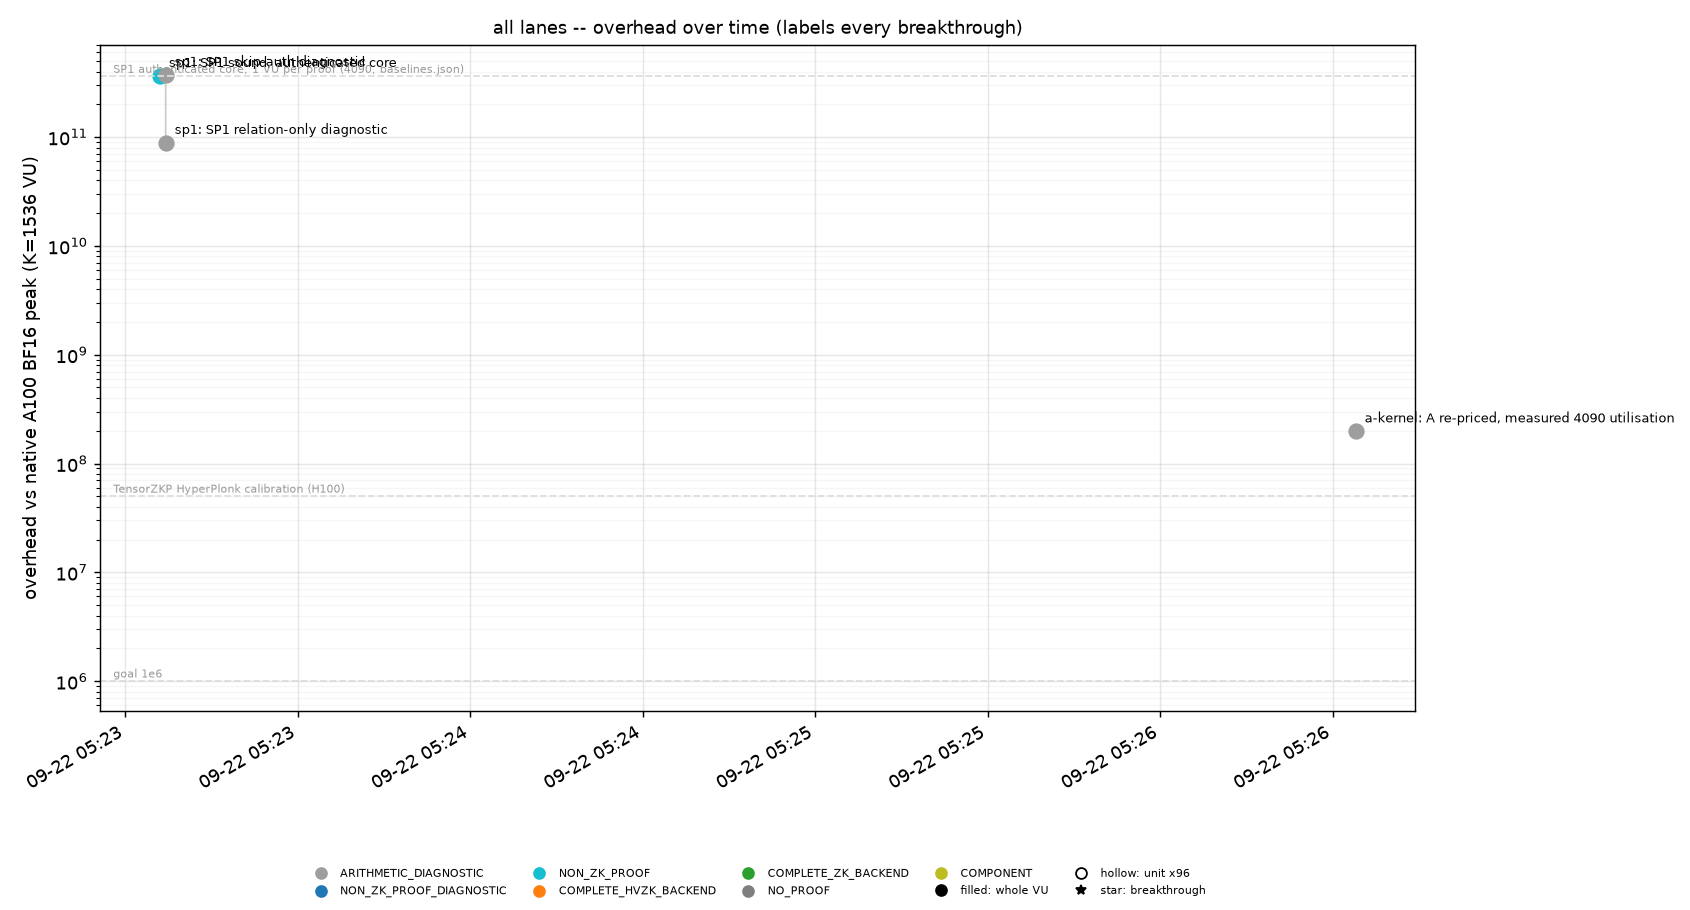
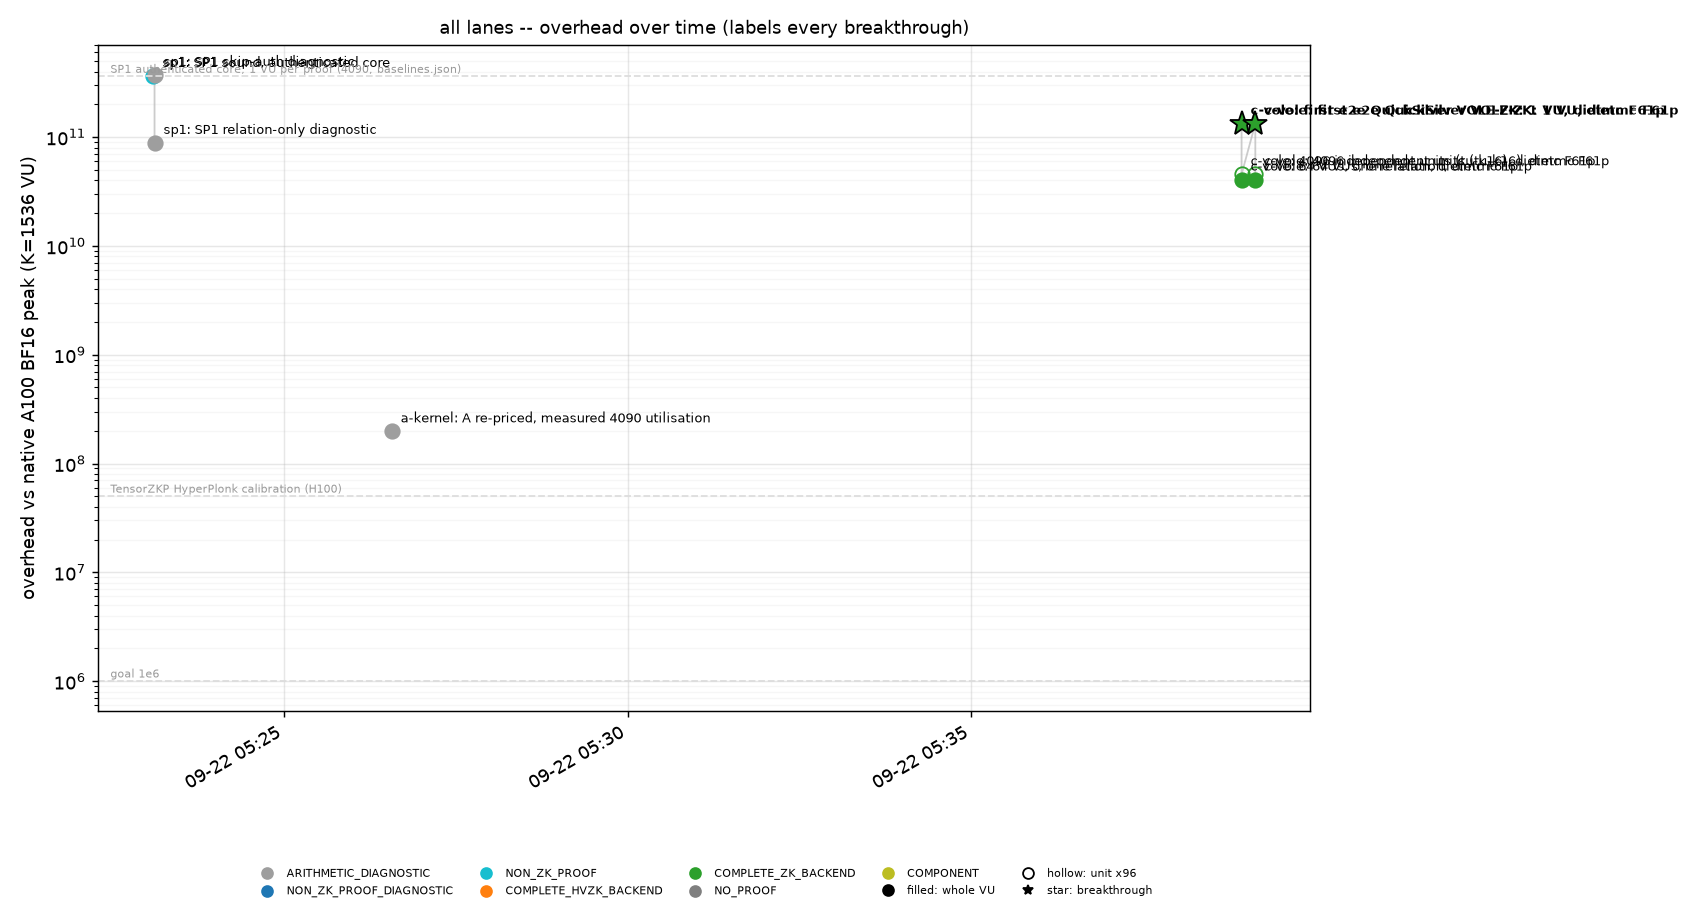
c-vole ledger: first end-to-end QuickSilver VOLE-ZK runs (1 VU 1.31 s, 64 VUs 0.400 s/VU, 4096 units 4.66 ms/unit; F61p r=1 sensitivity point) + plots; bench.py writes research/result/v0.1

diff --git a/backends/vole/bench.py b/backends/vole/bench.py
@@ -236,9 +236,37 @@ def main(argv=None) -> int:
     out.write_text(json.dumps(result, indent=1) + "\n")
     rd = os.environ.get("RESEARCH_RUN_DIR")
     if rd:
-        env = {"schema": "research/result/v1", "run_id": os.environ.get("RESEARCH_RUN_ID"), "label": args.label,
-               "accepted": all(r["accepted"] for r in runs), "bench": str(out)}
-        (Path(rd) / "result.json").write_text(json.dumps(env, indent=1) + "\n")
+        ok = all(r["accepted"] for r in runs)
+        r0 = runs[-1]
+        env = {
+            "schema": "research/result/v0.1", "run_id": os.environ.get("RESEARCH_RUN_ID"),
+            "workload_fingerprint": {"tool": "diet-mac-and-cheese", "swanky_commit": args.swanky_commit, "lpn": args.lpn,
+                                     "threads": args.threads, "relation": meta, "field": meta.get("field"),
+                                     "zk_mode": "designated-verifier", "mac_extension_degree": 1},
+            "validation": {"status": "passed" if ok else "failed", "checker": "dietmc verifier (accept/reject) + export_ir evaluator",
+                           "detail": f"{args.label}: verifier {'accepted' if ok else 'REJECTED'}", "evidence": [str(out.relative_to(rd)) if str(out).startswith(rd) else str(out)]},
+            "measurements": [
+                {"name": "prover_wall", "value": r0["prover"]["wall_s"], "unit": "s"},
+                {"name": "verifier_wall", "value": r0["verifier"]["wall_s"], "unit": "s"},
+                {"name": "svole_extension", "value": r0["svole_extension_s"], "unit": "s"},
+                {"name": "online_estimate", "value": r0.get("online_s_estimate"), "unit": "s"},
+                {"name": "bytes_p2v", "value": (r0["bytes"] or {}).get("p2v"), "unit": "B"},
+                {"name": "bytes_v2p", "value": (r0["bytes"] or {}).get("v2p"), "unit": "B"},
+                {"name": "prover_peak_rss", "value": r0["prover"]["peak_rss_mb"], "unit": "MB"},
+            ],
+            "measurement_files": [str(out)], "artifacts": [],
+        }
+        # research's result.json is written once per run; several bench invocations in one run append labels
+        rp = Path(rd) / "result.json"
+        if rp.exists():
+            try:
+                prev = json.loads(rp.read_text())
+                if prev.get("validation", {}).get("status") == "failed":
+                    env["validation"] = prev["validation"]
+                env["measurement_files"] = sorted(set(prev.get("measurement_files", [])) | {str(out)})
+            except (OSError, ValueError):
+                pass
+        rp.write_text(json.dumps(env, indent=1) + "\n")
     summary = {k: result[k] for k in ("label", "lpn", "threads")}
     for r in runs:
         summary.update({"accepted": r["accepted"], "prover_wall_s": r["prover"]["wall_s"], "verifier_wall_s": r["verifier"]["wall_s"],
